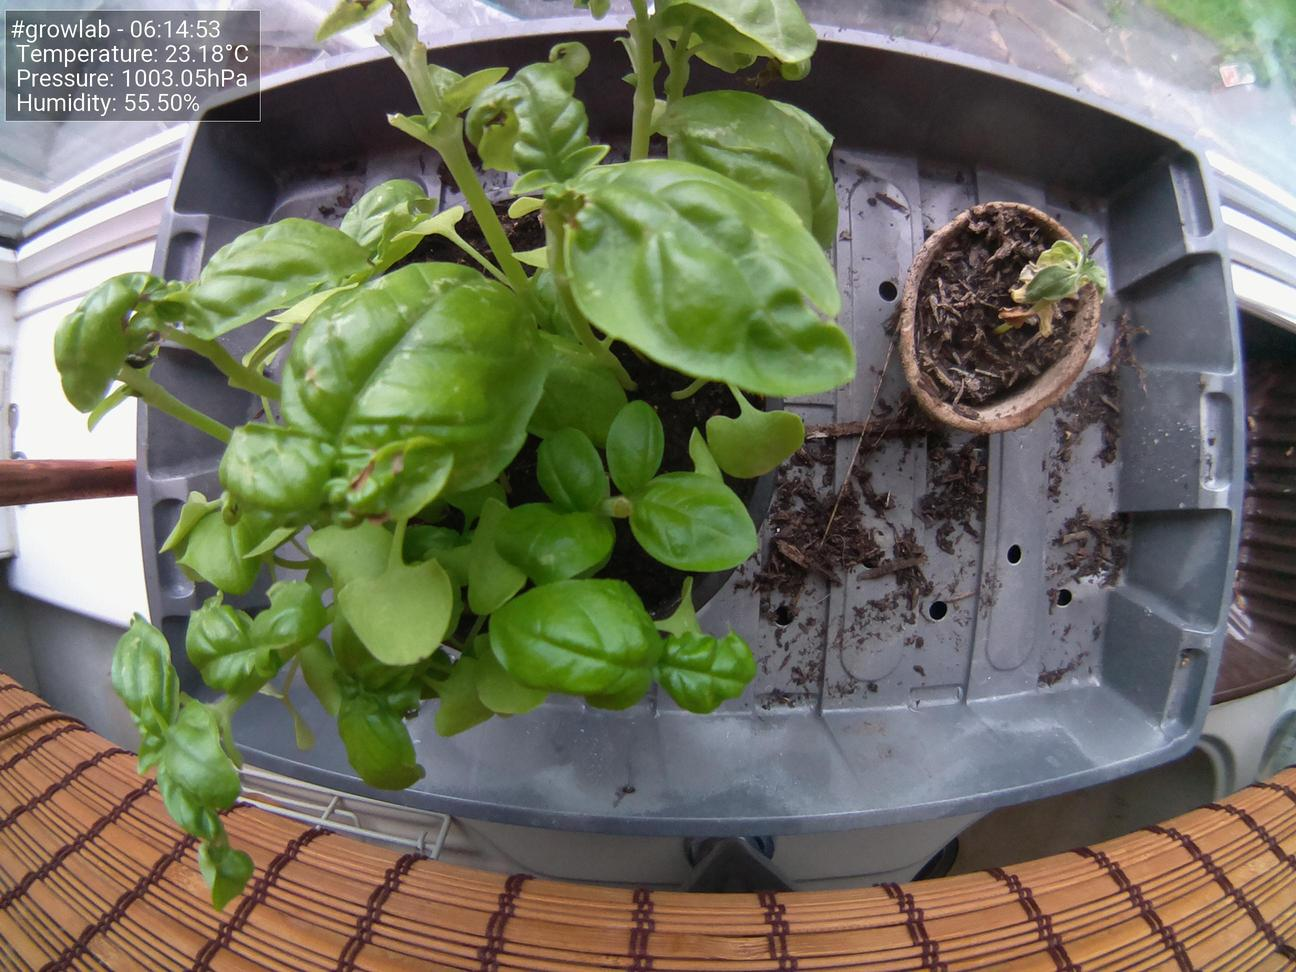
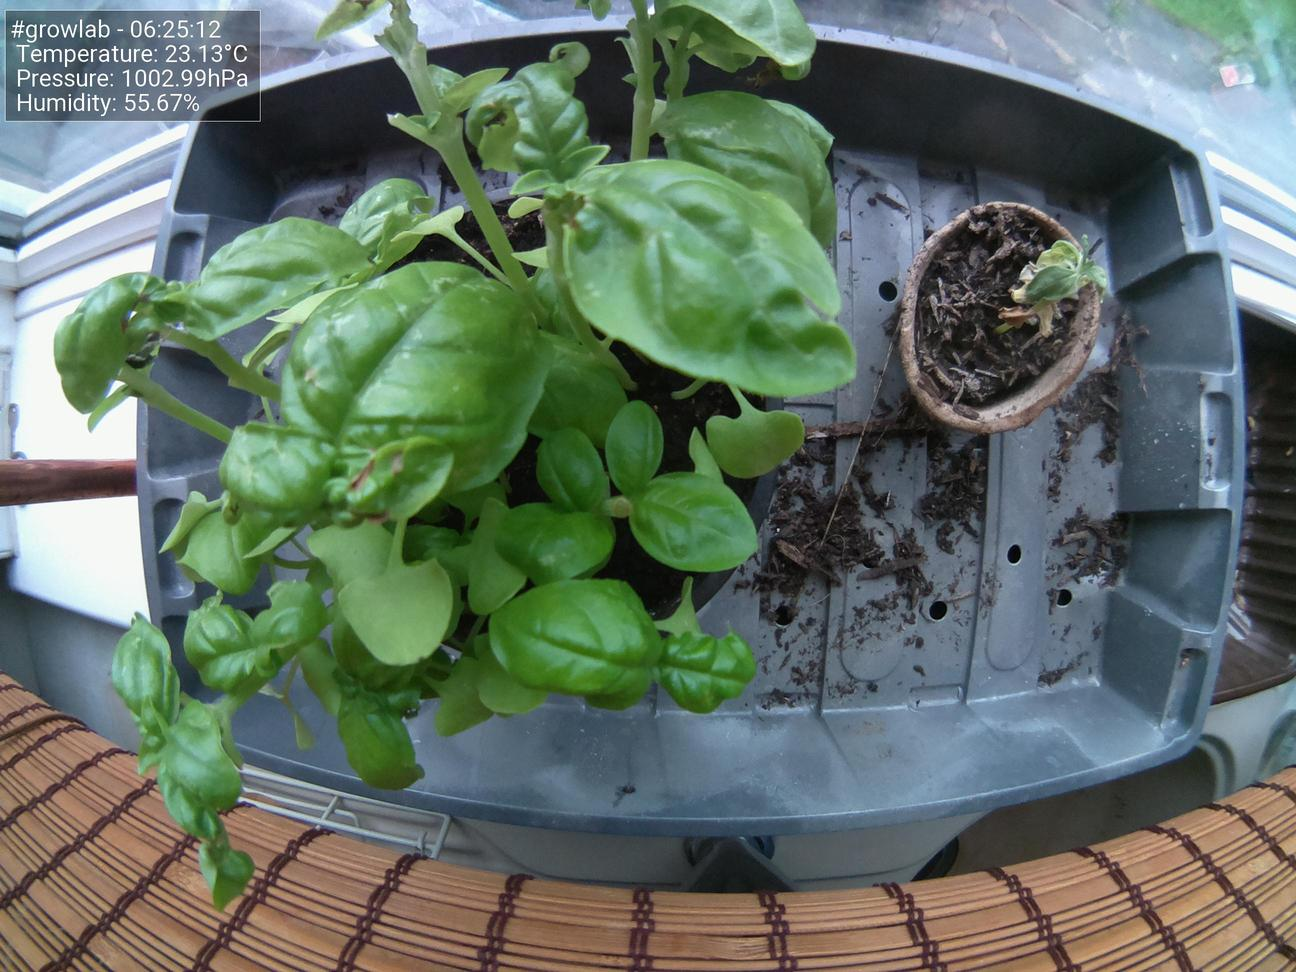
Update images at Fri 30 Jul 06:25:21 BST 2021

diff --git a/docs/index.html b/docs/index.html
@@ -47,19 +47,19 @@
                         <tbody>
                             <tr>
                                 <td>Time</td>
-                                <td>06:14:53</td>
+                                <td>06:25:12</td>
                             </tr>
                             <tr>
                                 <td>Temperature</td>
-                                <td>23.18°C</td>
+                                <td>23.13°C</td>
                             </tr>
                             <tr>
                                 <td>Humidity</td>
-                                <td>55.50%</td>
+                                <td>55.67%</td>
                             </tr>
                             <tr>
                                 <td>Pressure</td>
-                                <td>1003.05hPa</td>
+                                <td>1002.99hPa</td>
                             </tr>
                         </tbody>
                     </table>
@@ -67,7 +67,7 @@
 
                 <h5>Latest image</h5>
                 <div style="width: 85%;">
-                            <img class="figure-img img-fluid rounded" src="./preview.jpg?uid=1627622102.3404405">
+                            <img class="figure-img img-fluid rounded" src="./preview.jpg?uid=1627622721.017055">
                 </div>
             </div>
         </div>
